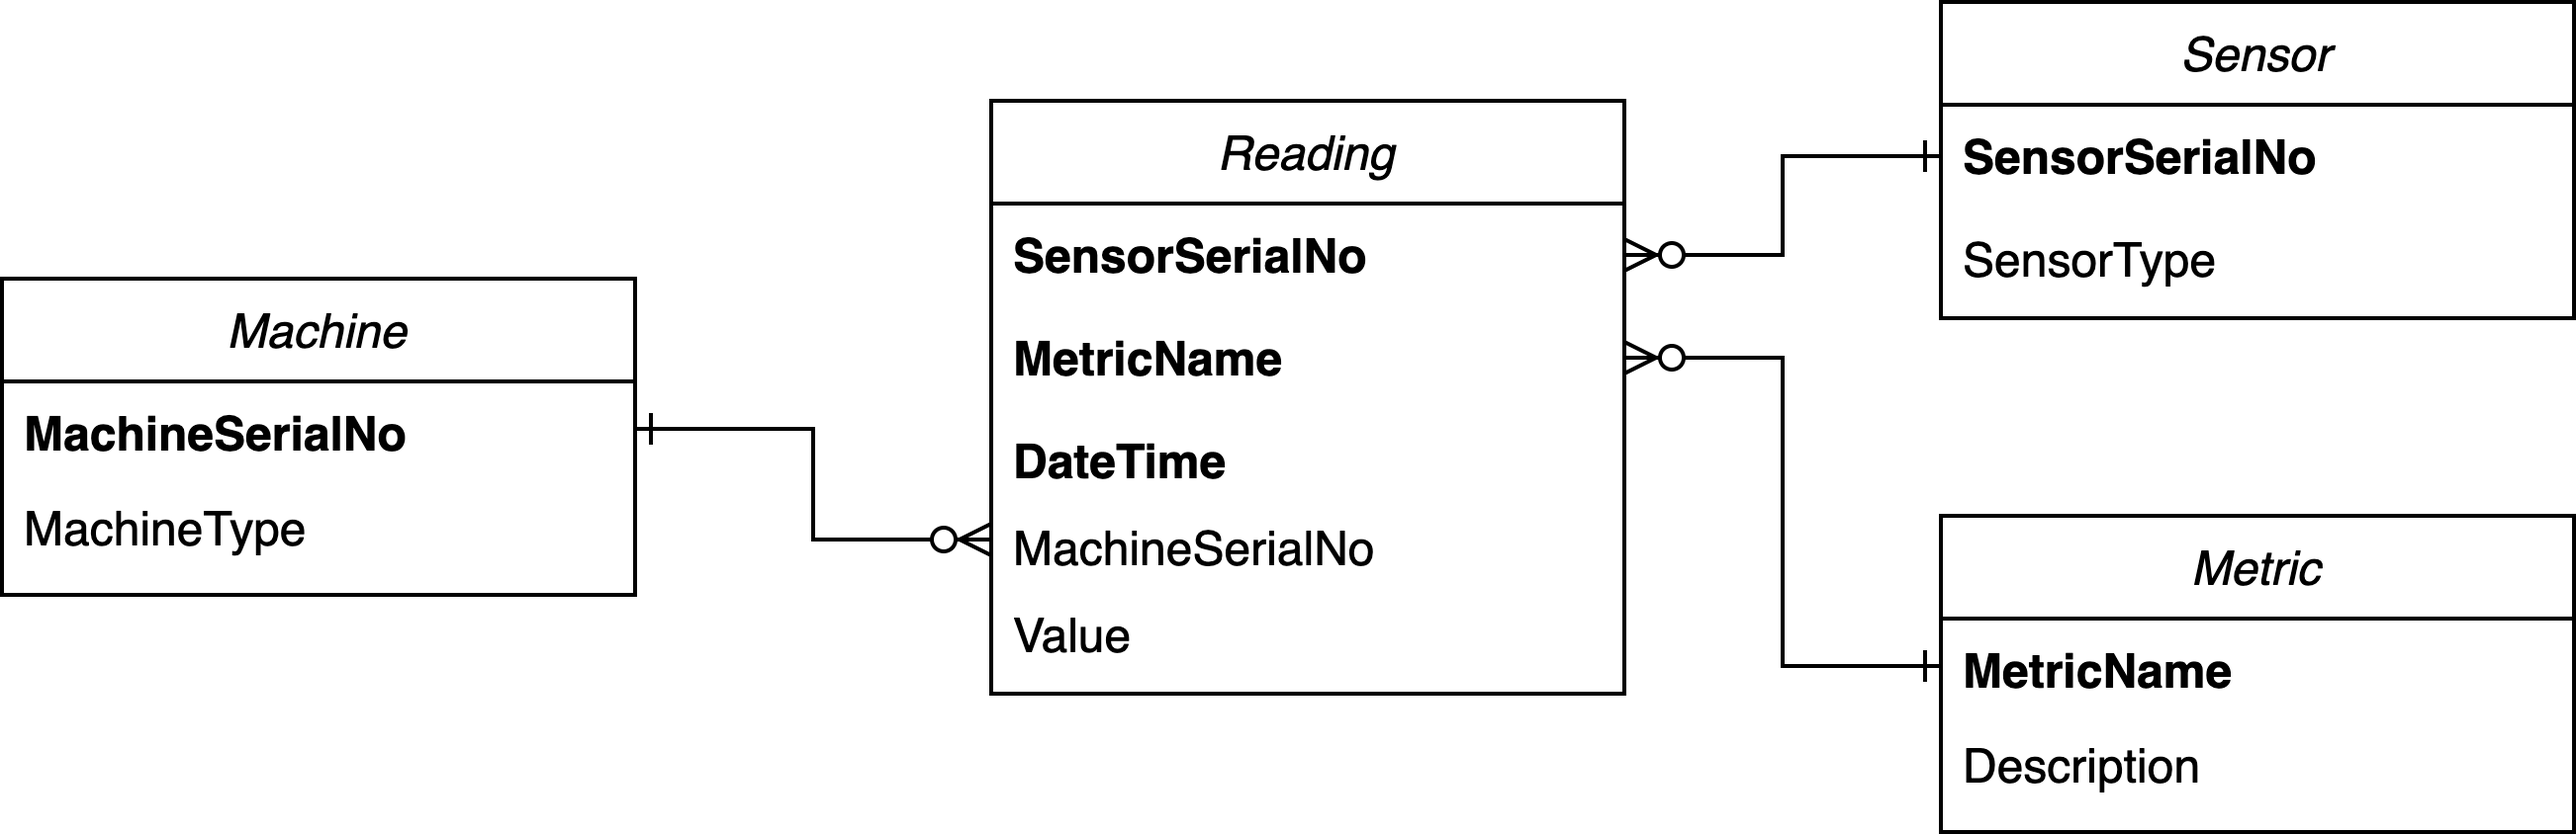
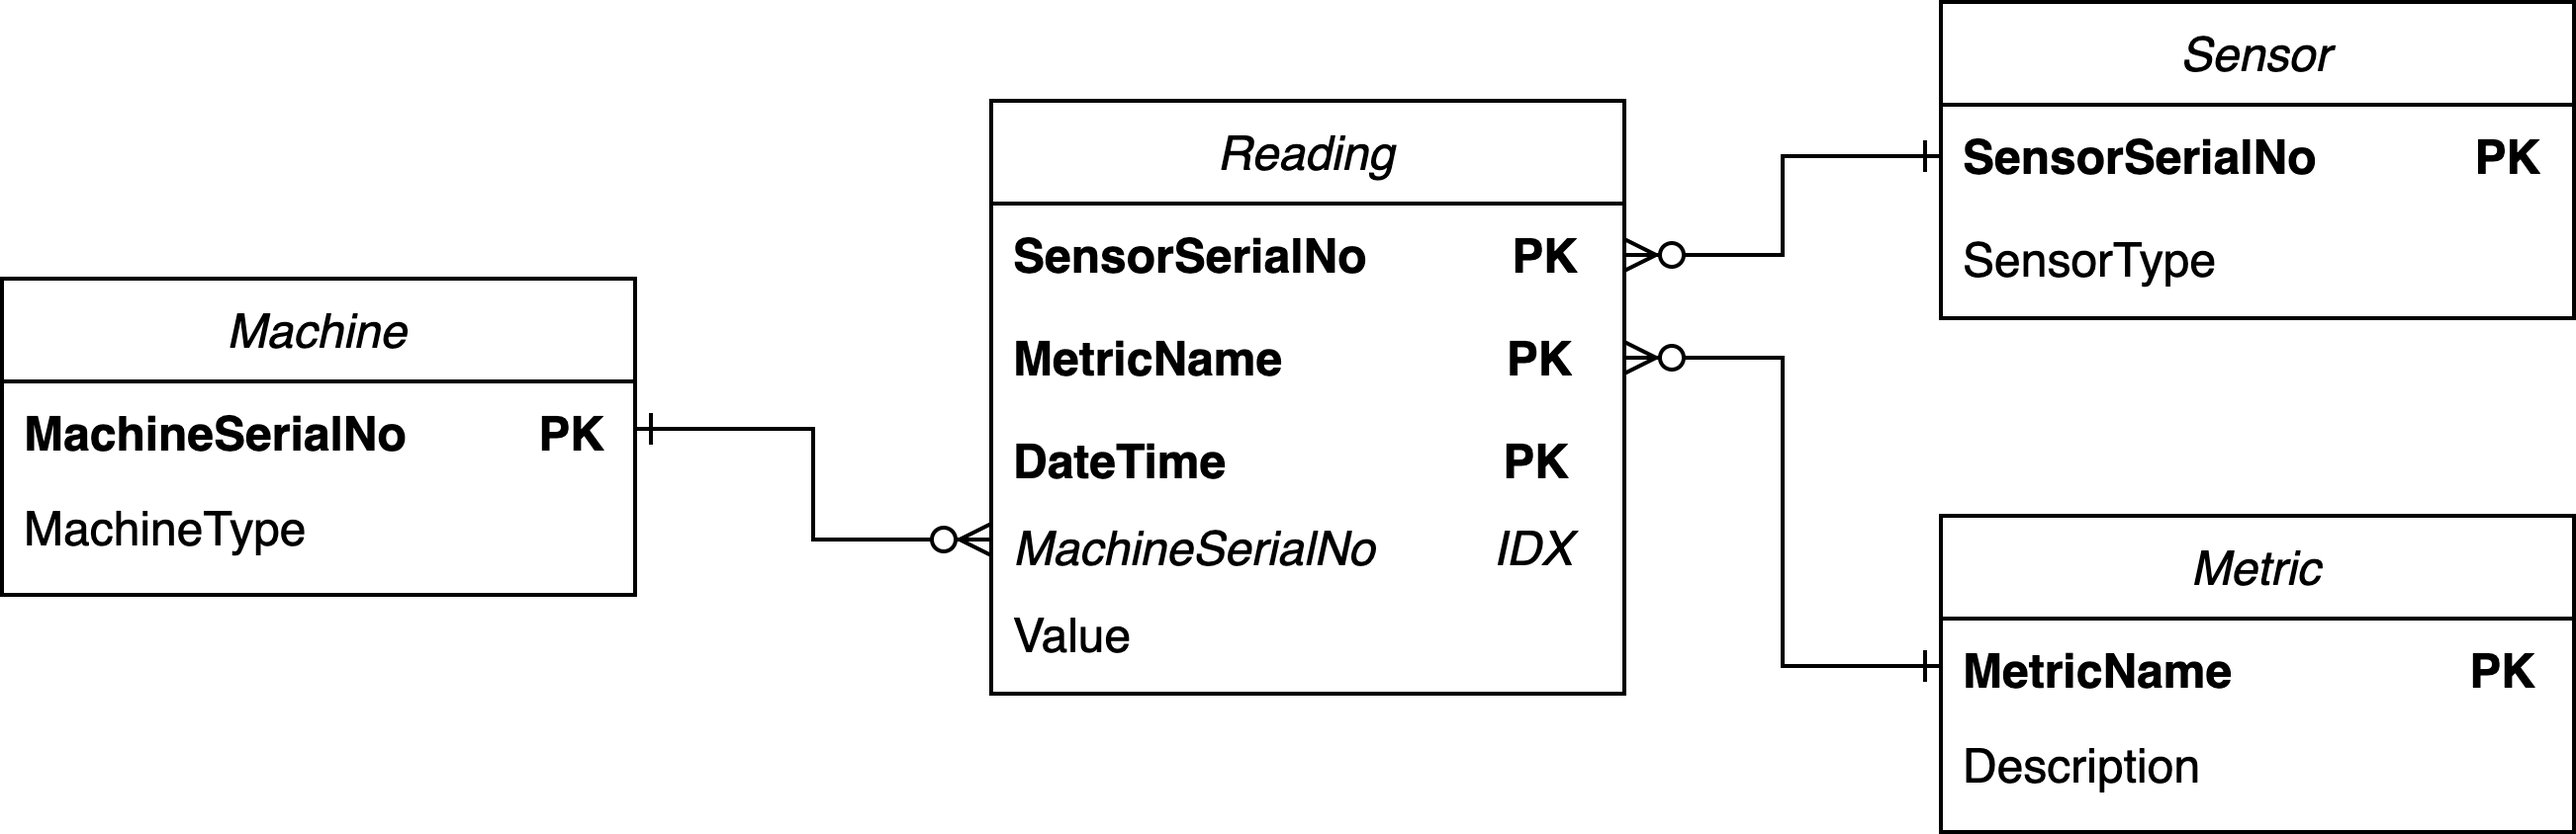
add index to reading table

diff --git a/src/database.py b/src/database.py
@@ -1,6 +1,7 @@
 #!/usr/bin/env python
 # coding: utf-8
 
+# In[193]:
 
 
 import sys
@@ -9,6 +10,7 @@ from configparser import ConfigParser
 import pandas as pd
 
 
+# In[194]:
 
 
 def config(filename='config.ini', section='postgresql'):
@@ -27,6 +29,7 @@ def config(filename='config.ini', section='postgresql'):
     return db
 
 
+# In[195]:
 
 
 def connect_to_db(params_dic):
@@ -43,6 +46,7 @@ def connect_to_db(params_dic):
     return conn
 
 
+# In[196]:
 
 
 def create_tables(conn):
@@ -80,8 +84,12 @@ def create_tables(conn):
         FOREIGN KEY (machine_serial_no)
             REFERENCES machine (machine_serial_no)
     )
+    """,
+    """
+    CREATE INDEX machine_idx ON reading (machine_serial_no)
     """
     )
+    
     cursor = conn.cursor()
     try:
         for query in queries:
@@ -98,6 +106,7 @@ def create_tables(conn):
     
 
 
+# In[197]:
 
 
 def count_records(conn):
@@ -128,6 +137,7 @@ def count_records(conn):
     cursor.close()
 
 
+# In[198]:
 
 
 def insert_records(conn, df):
@@ -181,6 +191,7 @@ def insert_records(conn, df):
     cursor.close()
 
 
+# In[ ]:
 
 
 

diff --git a/README.md b/README.md
@@ -18,9 +18,12 @@ ExampleCo, Inc is gathering several types of data for its fleet of very expensiv
 	All four metric values center around 0, which indicate the machine failed after a short period of normal functioning. There are also some outliers that fall into the ranges of >-200 and >200.
 	![scatter](/img/scatter.png)
 	The scatter plots give a better picture of the machine status over the time and the distribution of the outliers.
-	<br/>
+
 	- Database design  
+	Database schema:
 	![schema](/img/schema.png)
+	Advantages:  
+	
 - <strong>Process the data</strong>
 - <strong>Ingest the data</strong>
 
